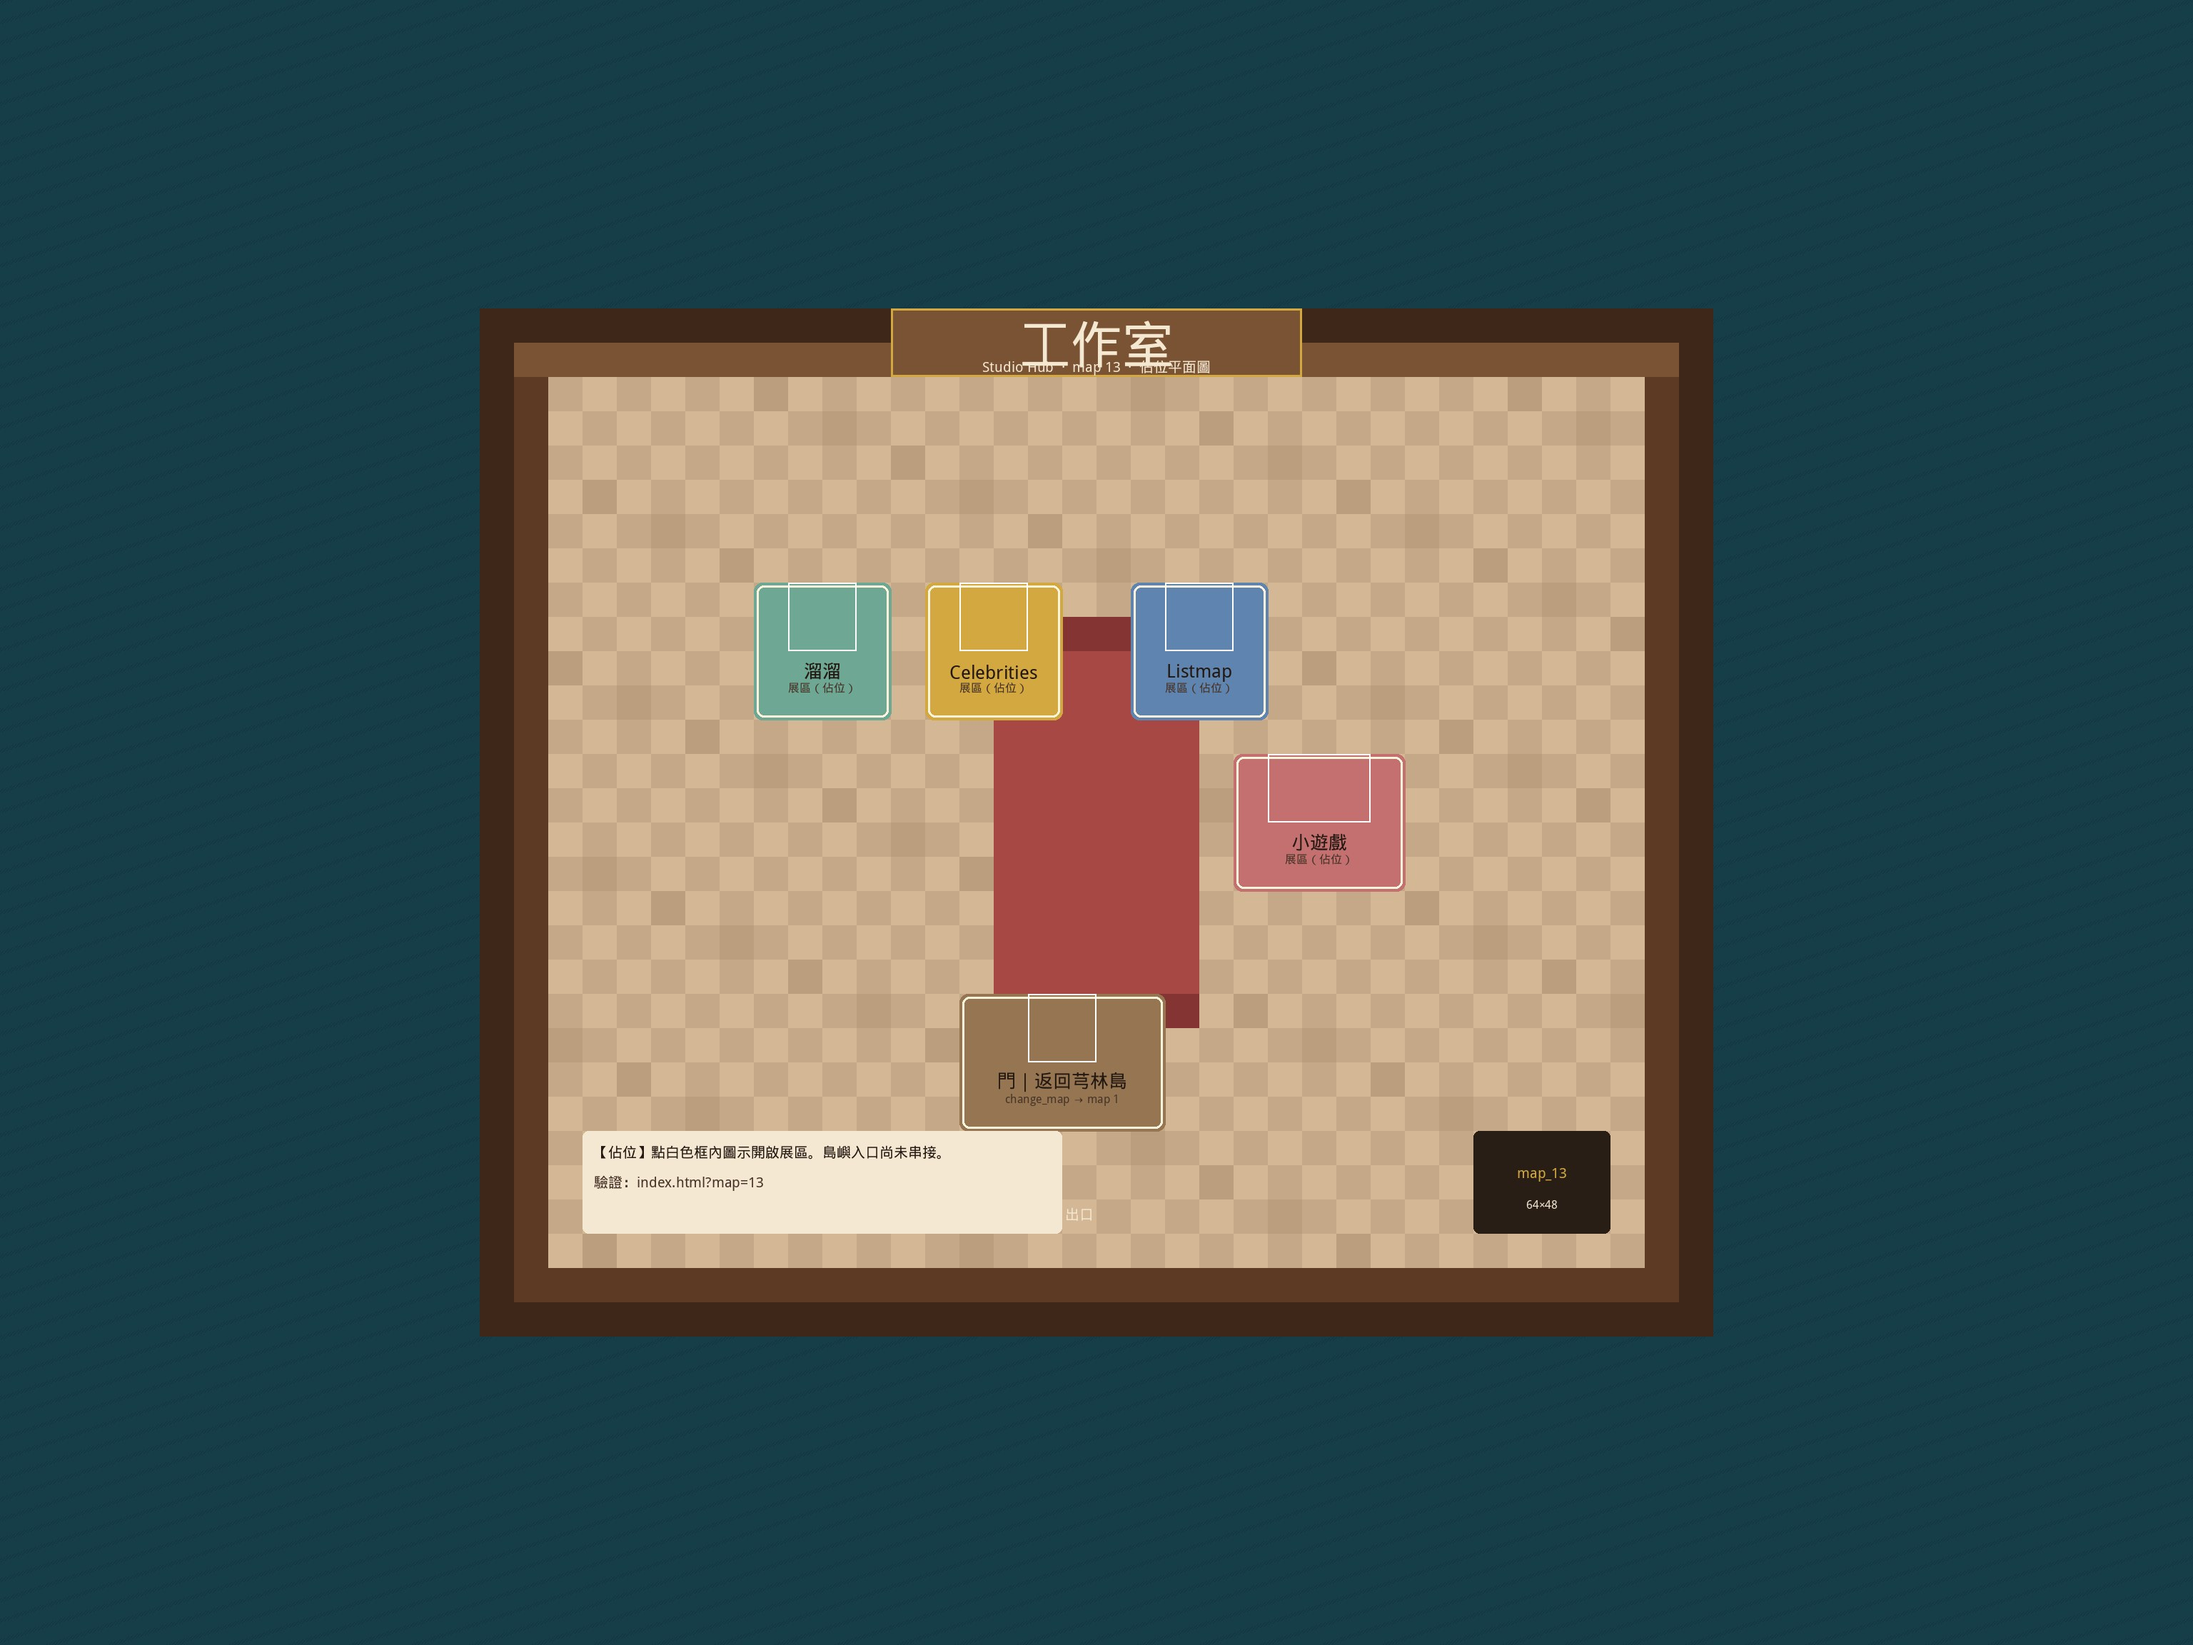
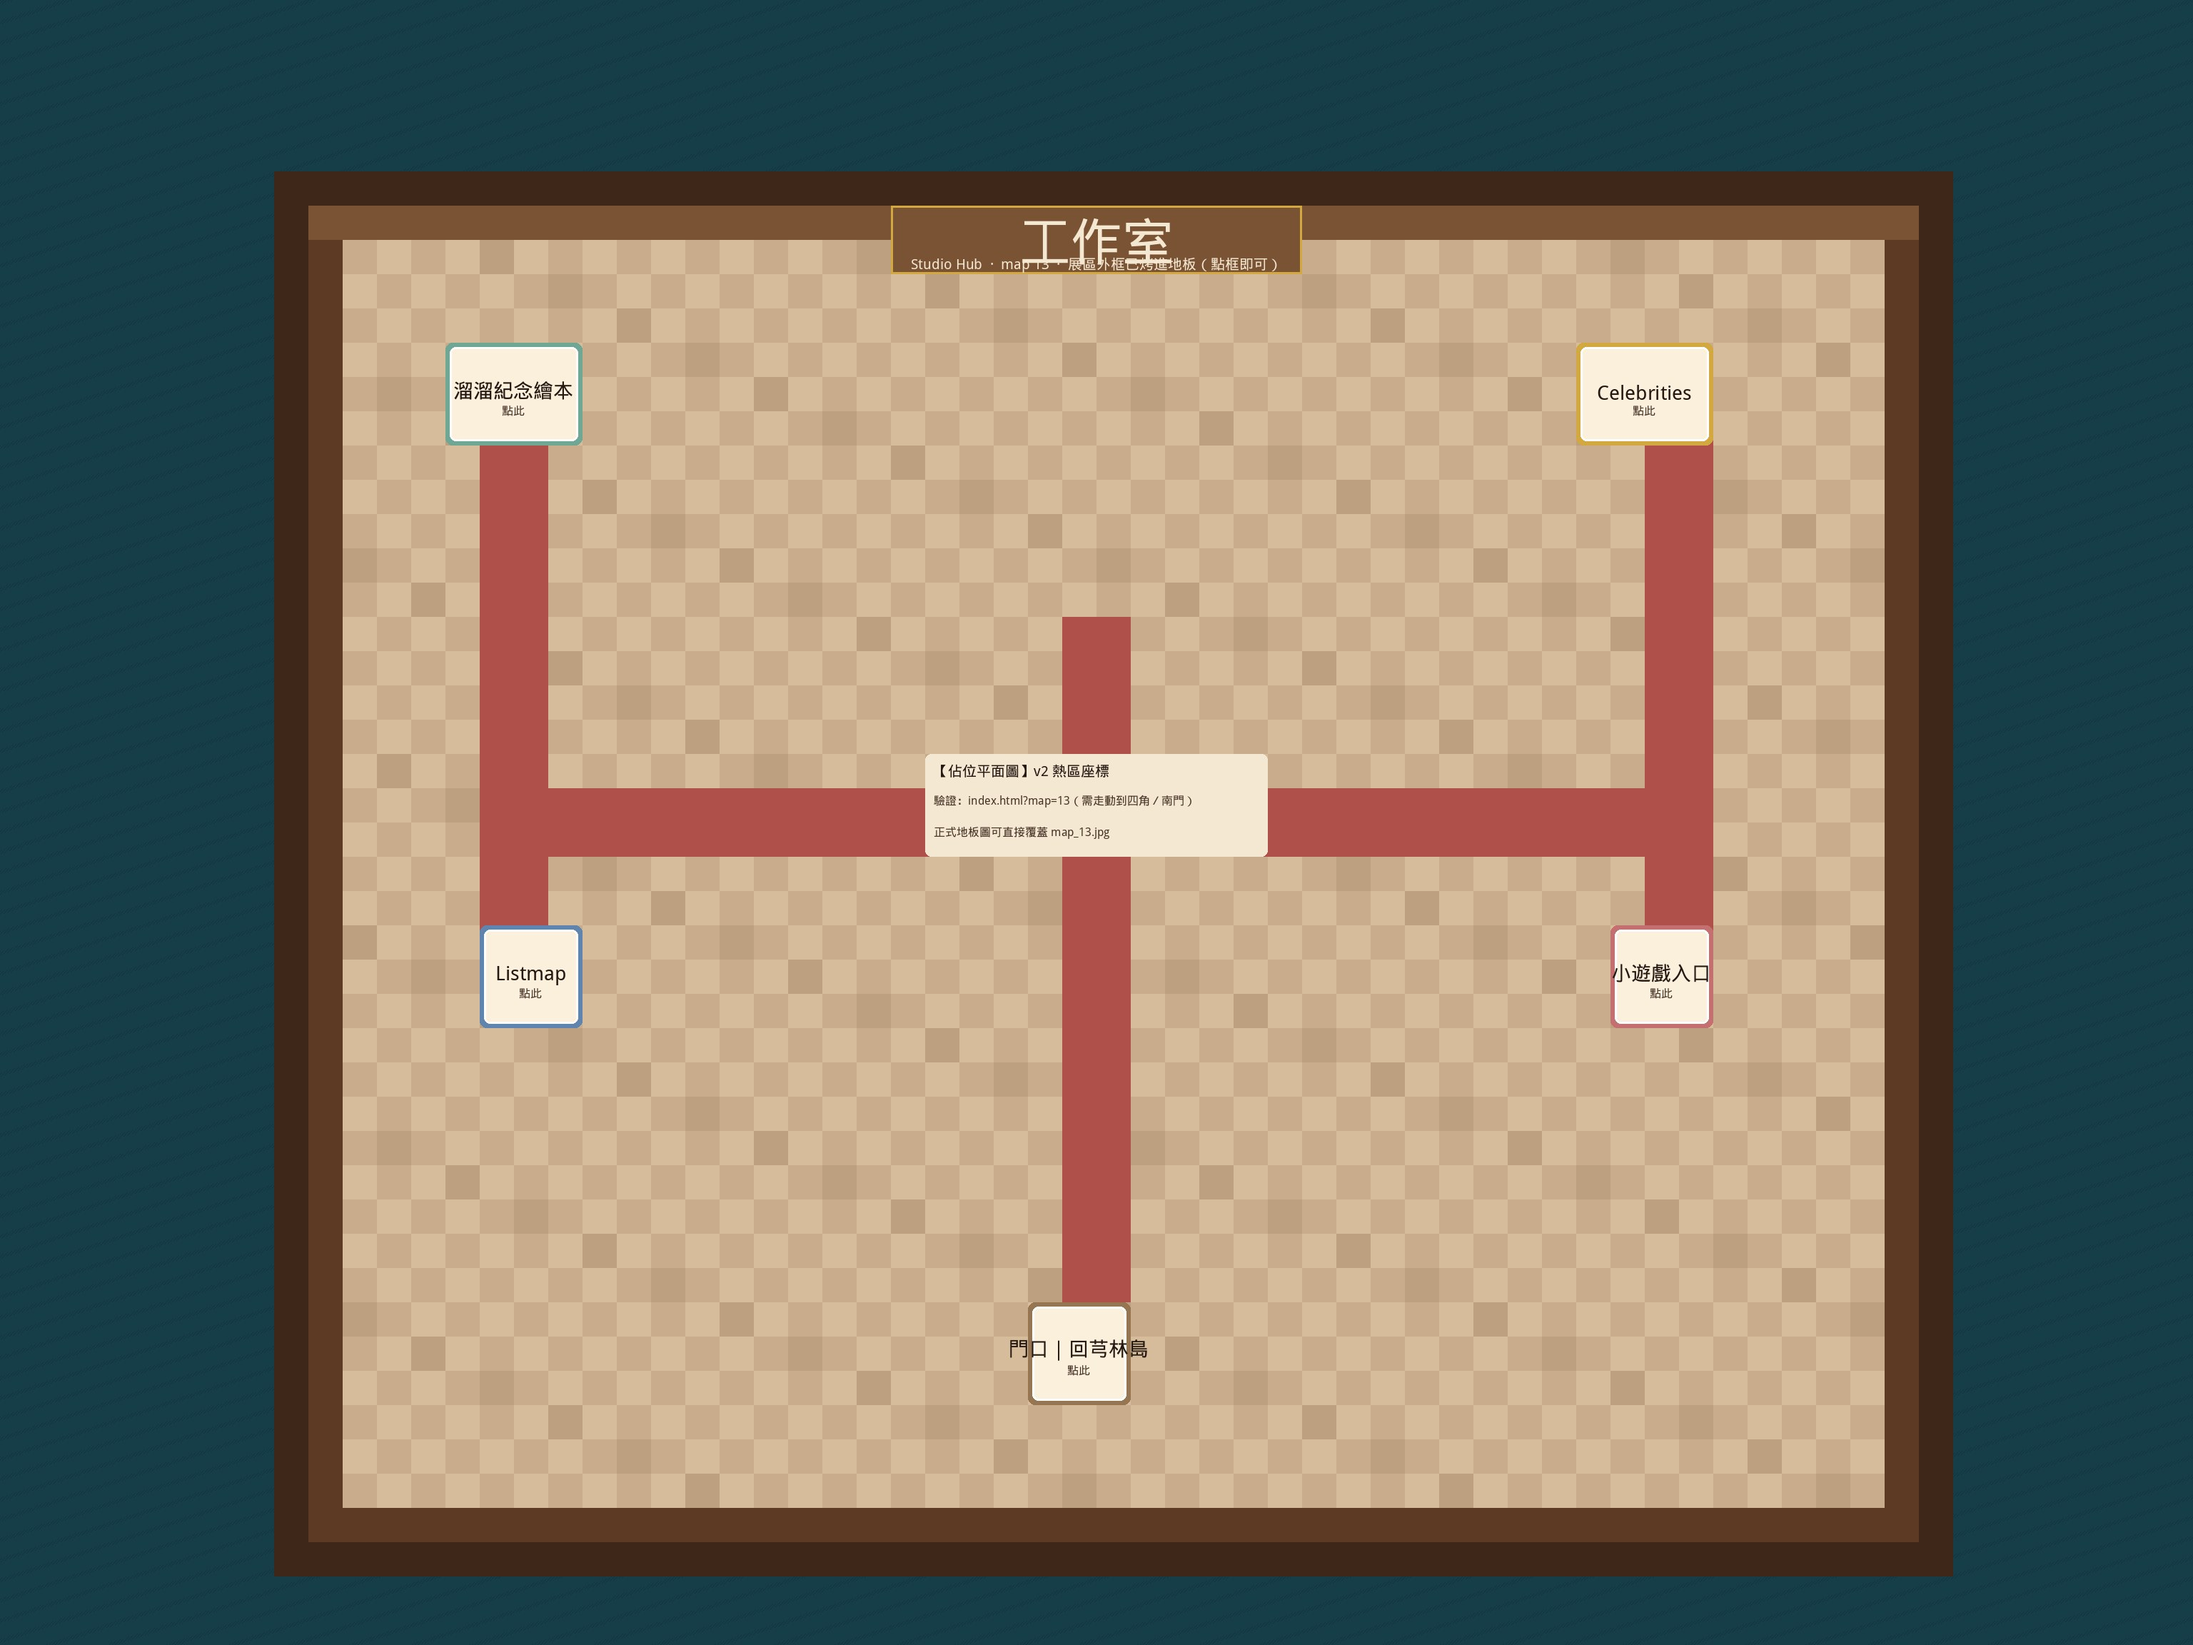
Align map 13 exhibits to studio hub PM v2 spec.
Use data/map_13_exhibits.json with the five locked ids, #TBD B1 links, and v2 tile hitboxes. Floor frames are baked into map_13.jpg; static sprites stay click-only so they do not stack on the frames.

diff --git a/js/index.js b/js/index.js
@@ -139,6 +139,8 @@ function applyNpcSets(npc_sets) {
         NpcRole[i].path = npc_sets[i].path;
         NpcRole[i].type = npc_sets[i].type;
         NpcRole[i].event_type = npc_sets[i].event_type;
+        NpcRole[i].draw = npc_sets[i].draw !== false;
+        NpcRole[i].id = npc_sets[i].id;
 
         NpcRole[i].dir = 0;
         NpcRole[i].frame = 0;//第幾張
@@ -168,6 +170,7 @@ function normalizeLocalNpcData(data) {
         }
         return data;
     }
+    if (data.exhibits) return data.exhibits;
     if (data.npcs) {
         if (data.npcs.length > 0 && Object.prototype.toString.call(data.npcs[0]) === "[object Array]") {
             return parse_data_new(data.npcs);
@@ -208,12 +211,27 @@ function loadNpcFromAppsScript(mapid) {
         .fail(function () { markNpcLoaded(); });
 }
 
+function localNpcUrls(mapid) {
+    return [
+        "data/map_" + mapid + "_exhibits.json",
+        "data/map_" + mapid + ".json"
+    ];
+}
+
 function LoadNPC(mapid) {
     NpcRole = [];
+    tryLocalNpc(mapid, 0);
+}
 
-    // Prefer in-repo JSON (data/map_<id>.json) so maps like 13 do not depend on Apps Script.
+function tryLocalNpc(mapid, idx) {
+    var urls = localNpcUrls(mapid);
+    if (idx >= urls.length) {
+        loadNpcFromAppsScript(mapid);
+        return;
+    }
+    // Prefer in-repo JSON so maps like 13 do not depend on Apps Script.
     $.ajax({
-        url: "data/map_" + mapid + ".json",
+        url: urls[idx],
         dataType: "json"
     }).done(function (data) {
         var npc_sets = normalizeLocalNpcData(data);
@@ -221,7 +239,7 @@ function LoadNPC(mapid) {
         applyNpcSets(npc_sets);
         markNpcLoaded();
     }).fail(function () {
-        loadNpcFromAppsScript(mapid);
+        tryLocalNpc(mapid, idx + 1);
     });
 }
 
@@ -270,6 +288,7 @@ function DrawPlayer(npc) {
 }
 
 function DrawNpc(npc) {
+    if (npc.draw === false) return;
     //建築物
     if (npc.type == 'static') {
         Bitblt(npc.img, npc.build_offx, npc.build_offy, npc.build_w, npc.build_h, npc.srcx - VirualScreen.srcx, npc.srcy - VirualScreen.srcy);
